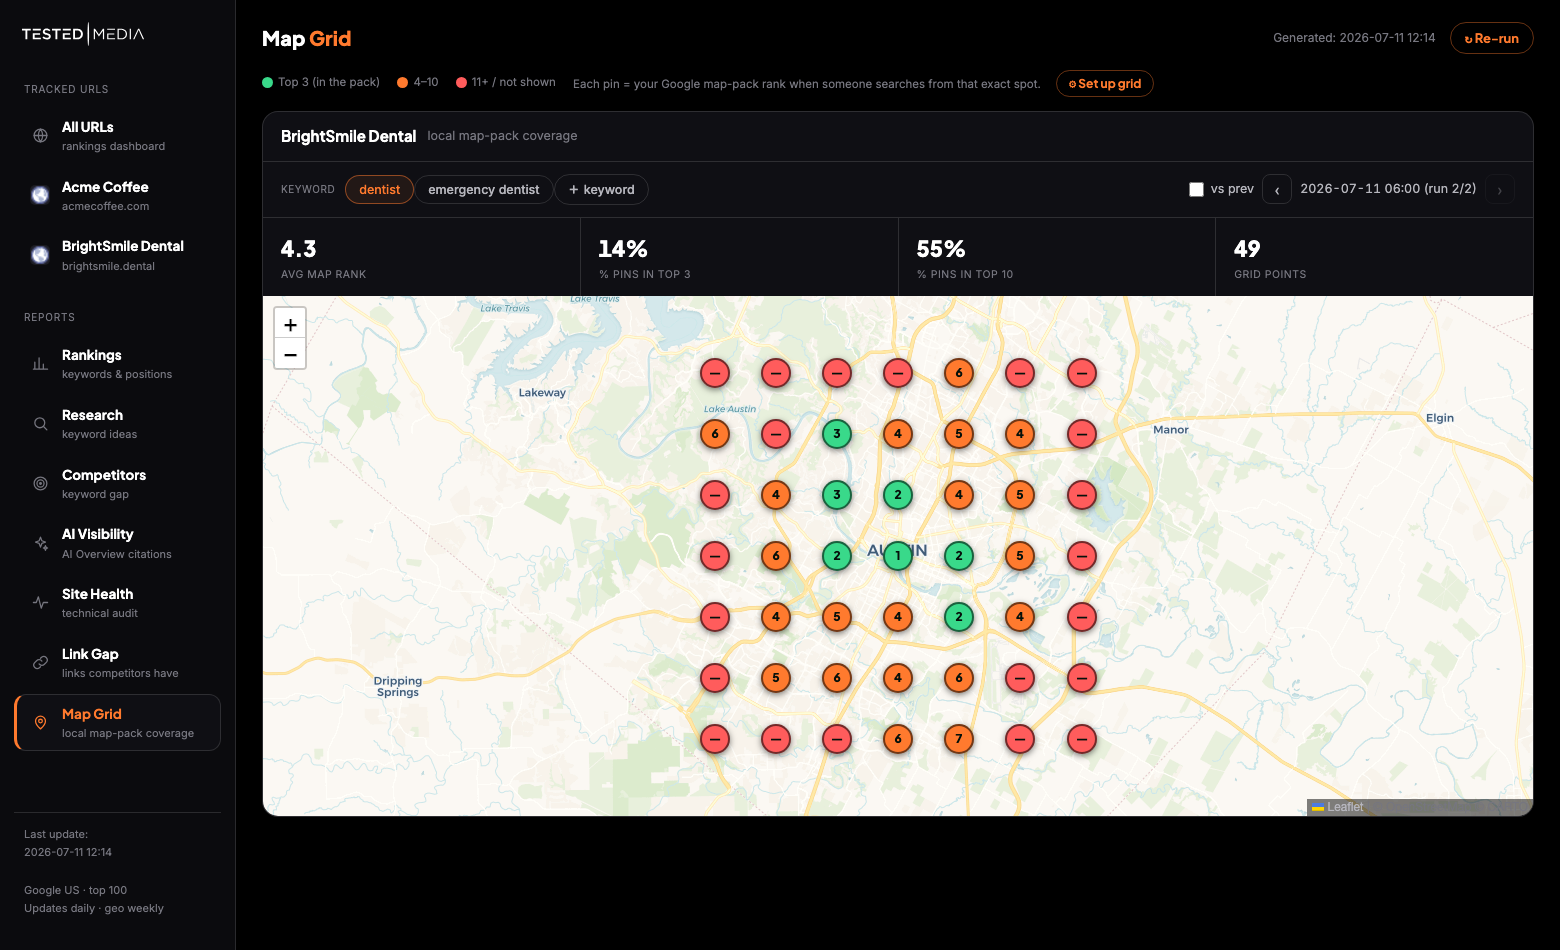
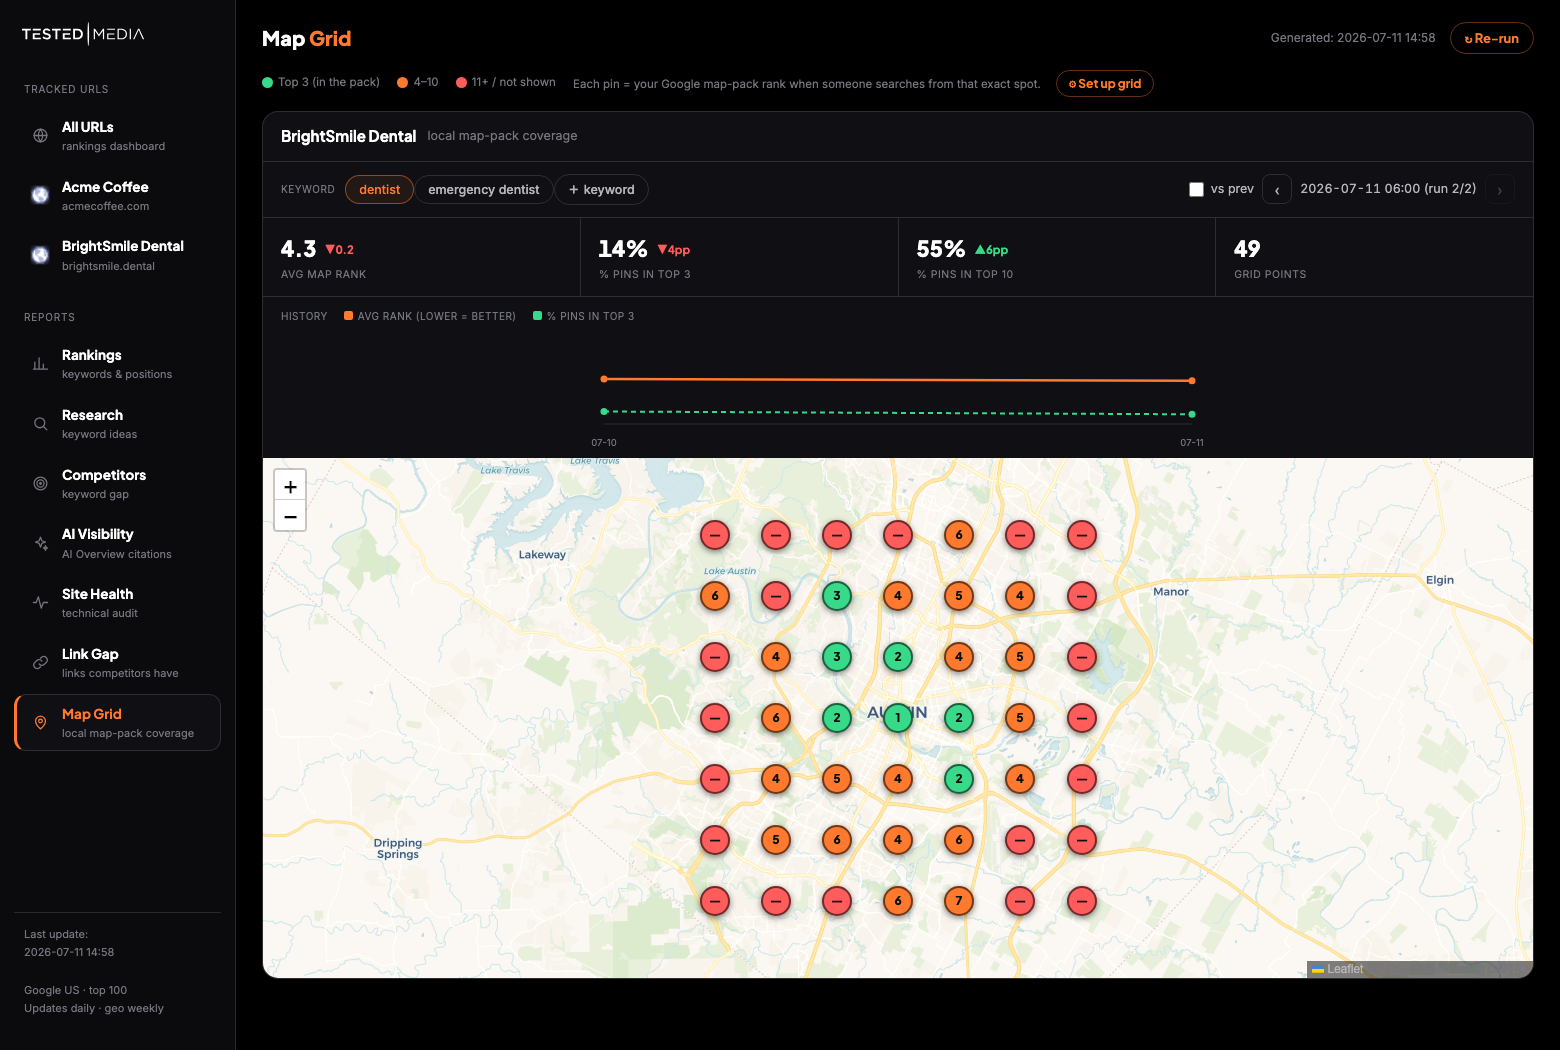
feat: map-grid historical tracking — per-keyword trend chart (avg rank + top-3 share across all runs) and run-over-run KPI deltas

diff --git a/tracker/geogrid.py b/tracker/geogrid.py
@@ -167,6 +167,12 @@ EXTRA_CSS = """
 .kpi{background:var(--card);padding:14px 18px}
 .kpi .v{font-family:'Plus Jakarta Sans';font-weight:800;font-size:22px;font-variant-numeric:tabular-nums}
 .kpi .k{color:var(--mut);font-size:10.5px;text-transform:uppercase;letter-spacing:.5px;margin-top:2px}
+.kd{font-size:11.5px;margin-left:8px;font-weight:700;vertical-align:3px}
+.kd.up{color:var(--up)}.kd.down{color:var(--down)}.kd.flat{color:var(--mut)}
+.ghist{padding:12px 18px 8px;border-top:1px solid var(--line)}
+.glbl{font-size:10px;text-transform:uppercase;letter-spacing:.5px;color:var(--mut);margin-bottom:6px;display:flex;gap:16px;align-items:center}
+.glbl .dot{width:9px;height:9px;border-radius:2px;margin-right:5px}
+.gempty{color:var(--mut);font-size:12px;padding:8px 0 14px}
 .map{height:520px;width:100%;background:#0a0a0e}
 .leaflet-container{background:#0a0a0e}
 .tilepane{filter:none}
@@ -235,6 +241,47 @@ function pinColor(r){ if(r===null||r===undefined) return '#ff5c5c'; if(r<=3) ret
 function pinText(r){ return (r===null||r===undefined) ? '\\u2014' : String(r); }
 function commas(n){ return n.toLocaleString('en-US'); }
 
+function runStats(pts){
+  var sum=0,ranked=0,t3=0,t10=0;
+  pts.forEach(function(p){var r=p.rank; if(r!==null&&r!==undefined){sum+=r;ranked++;if(r<=3)t3++;if(r<=10)t10++;}});
+  var n=pts.length||1;
+  return {avg: ranked? sum/ranked : null, t3: t3/n*100, t10: t10/n*100, n: pts.length};
+}
+function setKd(card, sel, diff, fmt){
+  var el=card.querySelector(sel); if(!el) return;
+  el.classList.remove('up','down');
+  if(diff===null||diff===undefined||Math.abs(diff)<0.05){ el.textContent=''; return; }
+  var up=diff>0;  // positive = improvement (caller orients the sign)
+  el.textContent=(up?'▲':'▼')+fmt(Math.abs(diff));
+  el.classList.add(up?'up':'down');
+}
+function renderTrend(card, runsMap){
+  var runs=Object.keys(runsMap).sort();
+  var st=runs.map(function(r){var s=runStats(runsMap[r]); s.run=r; return s;});
+  var el=card.querySelector('.gsvg'); if(!el) return;
+  if(st.length<2){ el.innerHTML='<div class="gempty">Trend chart appears after the next scan ('+st.length+' run stored so far). Every scan is kept forever.</div>'; return; }
+  var W=640,H=120,P=26;
+  var maxAvg=Math.max.apply(null,st.map(function(s){return s.avg===null?20:s.avg;}).concat([10]));
+  function x(i){return P + i*(W-2*P)/(st.length-1);}
+  function yAvg(v){return P + (v-1)/(maxAvg-1)*(H-2*P);}
+  function yPct(v){return (H-P) - v/100*(H-2*P);}
+  var avgLine=st.map(function(s,i){return x(i)+','+yAvg(s.avg===null?maxAvg:s.avg);}).join(' ');
+  var t3Line=st.map(function(s,i){return x(i)+','+yPct(s.t3);}).join(' ');
+  var dots='';
+  st.forEach(function(s,i){
+    dots+='<circle cx="'+x(i)+'" cy="'+yAvg(s.avg===null?maxAvg:s.avg)+'" r="3.5" fill="#ff7a2e"><title>'+s.run+' — avg rank '+(s.avg===null?'not in pack':s.avg.toFixed(1))+'</title></circle>';
+    dots+='<circle cx="'+x(i)+'" cy="'+yPct(s.t3)+'" r="3.5" fill="#39d98a"><title>'+s.run+' — top 3: '+Math.round(s.t3)+'% of pins</title></circle>';
+  });
+  var labels='';
+  var step=Math.max(1,Math.ceil(st.length/6));
+  st.forEach(function(s,i){ if(i%step===0||i===st.length-1){ labels+='<text x="'+x(i)+'" y="'+(H-4)+'" fill="#76767f" font-size="9.5" text-anchor="middle">'+s.run.slice(5,10)+'</text>'; }});
+  el.innerHTML='<svg viewBox="0 0 '+W+' '+H+'" style="width:100%;height:'+H+'px;display:block" preserveAspectRatio="xMidYMid meet">'
+    +'<line x1="'+P+'" y1="'+(H-P)+'" x2="'+(W-P)+'" y2="'+(H-P)+'" stroke="rgba(255,255,255,.13)"/>'
+    +'<polyline points="'+t3Line+'" fill="none" stroke="#39d98a" stroke-width="2" stroke-dasharray="5 4" stroke-linejoin="round"/>'
+    +'<polyline points="'+avgLine+'" fill="none" stroke="#ff7a2e" stroke-width="2.5" stroke-linejoin="round"/>'
+    +dots+labels+'</svg>';
+}
+
 var maps = {};  // brandKey -> {map, layer}
 function buildBrand(brand){
   var kws = Object.keys(DATA[brand]);
@@ -249,10 +296,11 @@ function buildBrand(brand){
     +'<div class="bar"><span class="lbl">Keyword</span><span class="kwchips"></span>'
     +'<span class="runsel"><label class="cmp"><input type="checkbox" class="cmpbox"> vs prev</label>'
     +'<button class="prev">\\u2039</button><span class="rlabel"></span><button class="next">\\u203a</button></span></div>'
-    +'<div class="kpis"><div class="kpi"><div class="v vAvg">—</div><div class="k">Avg map rank</div></div>'
-    +'<div class="kpi"><div class="v vT3">—</div><div class="k">% pins in top 3</div></div>'
-    +'<div class="kpi"><div class="v vT10">—</div><div class="k">% pins in top 10</div></div>'
+    +'<div class="kpis"><div class="kpi"><div class="v vAvg">—<span class="kd kdAvg"></span></div><div class="k">Avg map rank</div></div>'
+    +'<div class="kpi"><div class="v vT3">—<span class="kd kdT3"></span></div><div class="k">% pins in top 3</div></div>'
+    +'<div class="kpi"><div class="v vT10">—<span class="kd kdT10"></span></div><div class="k">% pins in top 10</div></div>'
     +'<div class="kpi"><div class="v vCov">—</div><div class="k">Grid points</div></div></div>'
+    +'<div class="ghist"><div class="glbl">History<span><i class="dot" style="background:#ff7a2e;display:inline-block"></i>avg rank (lower = better)</span><span><i class="dot" style="background:#39d98a;display:inline-block"></i>% pins in top 3</span></div><div class="gsvg"></div></div>'
     +'<div class="map" id="map_'+key+'"></div>';
   document.getElementById('mount').appendChild(card);
 
@@ -319,10 +367,17 @@ function buildBrand(brand){
       L.marker([p.lat,p.lng],{icon:icon}).addTo(layer).bindPopup(pop);
     });
     var n=pts.length;
-    card.querySelector('.vAvg').textContent = ranked?(sum/ranked).toFixed(1):'—';
-    card.querySelector('.vT3').textContent = n?Math.round(t3/n*100)+'%':'—';
-    card.querySelector('.vT10').textContent = n?Math.round(t10/n*100)+'%':'—';
+    card.querySelector('.vAvg').childNodes[0].textContent = ranked?(sum/ranked).toFixed(1):'—';
+    card.querySelector('.vT3').childNodes[0].textContent = n?Math.round(t3/n*100)+'%':'—';
+    card.querySelector('.vT10').childNodes[0].textContent = n?Math.round(t10/n*100)+'%':'—';
     card.querySelector('.vCov').textContent = commas(n);
+    // improvement vs the previous run: for rank, lower is better; for %, higher is better
+    var ps = prevPts ? runStats(prevPts) : null;
+    var curAvg = ranked? sum/ranked : null;
+    setKd(card, '.kdAvg', (ps && ps.avg!==null && curAvg!==null) ? ps.avg-curAvg : null, function(d){return d.toFixed(1);});
+    setKd(card, '.kdT3',  ps && n ? (t3/n*100)-ps.t3 : null, function(d){return Math.round(d)+'pp';});
+    setKd(card, '.kdT10', ps && n ? (t10/n*100)-ps.t10 : null, function(d){return Math.round(d)+'pp';});
+    renderTrend(card, runsMap);
     var d=new Date(run.replace(' ','T'));
     card.querySelector('.rlabel').textContent = run+'  (run '+(runs.length-state.runIdx)+'/'+runs.length+')';
     card.querySelector('.prev').disabled = state.runIdx>=runs.length-1;

diff --git a/README.md b/README.md
@@ -44,7 +44,7 @@ Seven pages, one dark command center, everything driven from the browser:
 | **AI Visibility** | Which of your keywords trigger Google AI Overviews, whether you're cited, and who is |
 | **Site Health** | Zero-cost technical crawler: broken links, duplicate titles, missing metas, thin content, per-site score |
 | **Link Gap** | Domains linking to your rivals but not you, junk-filtered and classified by how to actually get the link |
-| **Map Grid** | LocalFalcon-style GPS grid: your Google map-pack rank from 49+ points around your city, plus who holds the top 3 at every pin |
+| **Map Grid** | LocalFalcon-style GPS grid: your Google map-pack rank from 49+ points around your city, who holds the top 3 at every pin, per-keyword history charts and run-over-run improvement deltas |
 
 <div align="center">
 <img src="docs/screenshots/rankings.png" alt="Rankings dashboard" width="900">